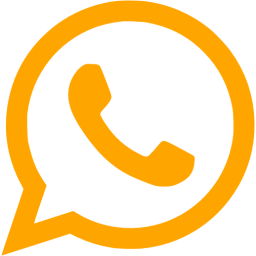
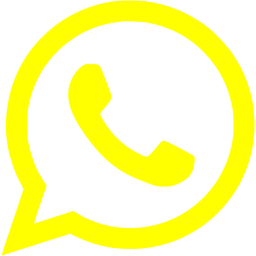
corporate image refactoring

diff --git a/index.html b/index.html
@@ -8,13 +8,13 @@
     <meta name="author" content="cl-Quick.Tech" />
     <meta
       name="description"
-      content="En Quicktech somos especialistas en diseño y desarrollo web, ofrecemos soluciones digitales innovadoras para empresas de todos los tamaños y sectores." />
+      content="Somos especialistas en diseño y desarrollo web" />
     <meta name="date" content="Enero 2024" />
     <meta name="robots" content="index, all, follow" />
     <meta name="category" content="Desarrollo Web" />
     <meta name="keywords" content="páginas, web, desarrollo, quick, tech" />
     <title>QuickTech | 2024</title>
-    <link rel="icon" type="image/x-icon" href="assets/images/favicon.png" />
+    <link rel="icon" type="image/x-icon" href="assets/images/iconLogoCLquickTech.png" />
     <!--Import Google Icon Font-->
     <link
       href="https://fonts.googleapis.com/icon?family=Material+Icons"
@@ -24,39 +24,39 @@
       rel="stylesheet"
       href="https://cdnjs.cloudflare.com/ajax/libs/materialize/1.0.0/css/materialize.min.css" />
       <!-- css -->
-      <!-- <link rel="stylesheet" href="assets/css/styles.css"> -->
+      <link rel="stylesheet" href="assets/css/styles.css">
   </head>
   <body>
     <!-- nav -->
     <div class="navbar-fixed">
       <nav class="black">
         <div class="nav-wrapper">
-          <a href="#init" class="brand-logo" >
-            <img src="assets/images/Logo.png" style="height: 56px" alt="Logo" />
+          <a href="index" class="brand-logo" >
+            <img class="img_logo" src="assets/images/LogoCLquickTech.png" alt="Logo" />
           </a>
           <!-- hamburger -->
           <a href="#" data-target="mobile-demo" class="sidenav-trigger"
-            ><i class="large material-icons" style="color: #f79c1b">menu</i></a
+            ><i class="large material-icons" style="color: #fff954">menu</i></a
           >
           <!-- nav-desktop -->
           <ul class="right hide-on-med-and-down">
             <li>
-              <a style="color: #f79c1b" href="#team">Nosotros</a>
+              <a style="color: #fff954" href="#sobre_nosotros">Nosotros</a>
             </li>
             <li>
-              <a style="color: #f79c1b" href="#webservices">Servicios</a>
+              <a style="color: #fff954" href="#servicios">Servicios</a>
             </li>
             <li>
-              <a style="color: #f79c1b" href="#contact">Contáctanos</a>
+              <a style="color: #fff954" href="#contacto">Contáctanos</a>
             </li>
             <li>
-              <a style="color: #f79c1b" href="#skills">Developer Skills</a>
+              <a style="color: #fff954" href="#herramientas_de_desarrollo">Developer Skills</a>
             </li>
             <li style="width: 62px;">
               <a
                 class="waves-effect waves-light"
                 href="https://wa.me/+56950988506?text=Hola QuickTech, te escribo desde la web..."
-                ><img src="assets/images/whatsapp.ico" class="responsive-img" style="max-width: 80%; margin-top: 1.325rem;"></a
+                ><img src="assets/images/whatsapp.png" class="responsive-img" style="max-width: 80%; margin-top: 1.325rem;"></a
               >
             </li>
           </ul>
@@ -64,30 +64,30 @@
       </nav>
     </div>
      <!-- nav-responsive -->
-   <div class="div container sidenav black" style="width: 360px;" id="mobile-demo">
+   <div class="div container sidenav black" id="mobile-demo">
     <div class="div section">
-      <img src="assets/images/Logo.png" style="width: 200px" alt="logoQuickTech">
+      <img src="assets/images/LogoCLquickTech.png" style="width: 200px" alt="logoQuickTech">
     </div>
      <ul >
       <li>
-        <a href="#team" style="color: #f79c1b">Nosotros</a>
+        <a href="#sobre_nosotros" style="color: #fff954">Nosotros</a>
       </li>
       <li>
-        <a href="#webservices" style="color: #f79c1b"
+        <a href="#servicios" style="color: #fff954"
           >Servicios</a
         ></li>
         <li>
-        <a href="#contact" style="color: #f79c1b"
+        <a href="#contacto" style="color: #fff954"
           >Contáctanos</a
         ></li>
         <li>
-          <a href="#skills" style="color: #f79c1b"
+          <a href="#herramientas_de_desarrollo" style="color: #fff954"
             >Developer Skill</a
           ></li>
         <li style="cursor: pointer;">
           <a  class="waves"
             href="https://wa.me/+56950988506?text=Hola QuickTech, te escribo desde la web...">
-            <img src="assets/images/whatsapp.ico" 
+            <img src="assets/images/whatsapp.png" 
               alt="logo-whatsapp" 
               style="height: 30px;
               width: 30px;
@@ -102,15 +102,15 @@
       <div class="footer-copyright black" style="margin-top: 16rem; color: dimgrey;">
         <div class="container">
           v 1.0.3
-          <a class="white-text right" href="#">
-            <i class="material-icons" style="color: #f79c1b;">chevron_left</i>
+          <a class="white-text right" href="index">
+            <i class="material-icons" style="color: #fff954;">chevron_left</i>
           </a>
         </div>
       </div>
     </footer>
    </div>
     <!-- Banner / Aside -->
-    <section id="init" >
+    <section id="inicio" >
       <div class="slider">
         <ul class="slides">
           <li>
@@ -153,9 +153,10 @@
       </div>
     </section>
     <!-- Nosotros -->
-    <section id="team" class="section black" style="padding-top: 5rem; padding-bottom: 5rem;">
+    <section id="sobre_nosotros" class="box section black">
       <div class="container">
-        <h3 class="center-align" style="color: #f79c1b; margin-bottom: 20px;">Nosotros</h3>
+        <h1 class="center-align" style="color: #fff954; margin-bottom: 20px;">Nosotros</h1
+          >
       </div>
       <div class="row section container center-align">
         <span class="flow-text white-text col s12" style="text-align: justify;">
@@ -176,17 +177,17 @@
       </div>
     </section>
     <!-- Servicios web -->
-    <section id="webservices" class="section" style="padding-top: 5rem; margin-bottom: 2rem;">
+    <section id="servicios" class="box section">
       <div class="container">
-        <h3 class="center-align" style="color: black">Servicios</h3>
+        <h1 class="center-align" style="color: black">Servicios</h1>
       <div class="row">
         <div class="col s12 m6 l6">
           <div class="card">
             <div class="card-image waves-effect waves-block waves-light">
               <img class="activator" src="assets/images/service-01.jpg" style="height: 260px;">
             </div>
-            <div class="card-content">
-              <span class="card-title activator grey-text text-darken-4 center-align">Diseño Web</span>
+            <div class="card-content" style="color: white; background-color: #fa6a2d;">
+              <span class="card-title activator center-align">Diseño Web</span>
             </div>
             <div class="card-reveal">
               <span class="card-title grey-text text-darken-4">Diseño Web<i class="material-icons right">close</i></span>
@@ -206,8 +207,8 @@
             <div class="card-image waves-effect waves-block waves-light">
               <img class="activator" src="assets/images/service-02.jpg" style="height: 260px;">
             </div>
-            <div class="card-content">
-              <span class="card-title activator grey-text text-darken-4 center-align">Desarrollo Web</span>
+            <div class="card-content" style="color: white; background-color: #fa6a2d;">
+              <span class="card-title activator center-align">Desarrollo Web</span>
             </div>
             <div class="card-reveal">
               <span class="card-title grey-text text-darken-4">Desarrollo Front-end y Back-end<i class="material-icons right">close</i></span>
@@ -228,8 +229,8 @@
             <div class="card-image waves-effect waves-block waves-light">
               <img class="activator" src="assets/images/service-03.jpg" style="height: 260px;">
             </div>
-            <div class="card-content">
-              <span class="card-title activator grey-text text-darken-4 center-align">Optimización SEO</span>
+            <div class="card-content"  style="color: white; background-color: #fa6a2d;">
+              <span class="card-title activator center-align">Optimización SEO</span>
             </div>
             <div class="card-reveal">
               <span class="card-title grey-text text-darken-4">Optimización para Motores de Búsqueda (SEO)<i class="material-icons right">close</i></span>
@@ -247,8 +248,8 @@
             <div class="card-image waves-effect waves-block waves-light">
               <img class="activator" src="assets/images/service-04.jpg" style="height: 260px;">
             </div>
-            <div class="card-content">
-              <span class="card-title activator grey-text text-darken-4 center-align">Adaptación Responsive</span>
+            <div class="card-content"  style="color: white; background-color: #fa6a2d;">
+              <span class="card-title activator center-align">Adaptación Responsive</span>
             </div>
             <div class="card-reveal">
               <span class="card-title grey-text text-darken-4">Diseño y Desarrollo Responsivo <i class="material-icons right">close</i></span>
@@ -267,8 +268,8 @@
       </div>
     </section>
     <!-- Contáctanos -->
-    <section id="contact" class="section" style="padding-top: 5rem; margin-bottom: 4rem;">
-      <h3 class="center-align" style="color: black">Contáctanos</h3>
+    <section id="contacto" class="box section" style="background-color: #fff954">
+      <h1 class="center-align" style="color: black">Contáctanos</h1>
       <div class="row white section container">
           <form class="col s12" id="dataform" action="sendemail" method="post">
           <div class="row">
@@ -318,7 +319,6 @@
               <input id="email" name="email" type="email"  class="validate" required
                 style="border-bottom: 1px solid black;box-shadow: 0 1px 0 0 black;">
               <label for="email" style="color: black">Email</label>
-              <span class="helper-text" data-error="Ingrese un correo válido" data-success="Correo ingresado correctamente"></span>
             </div>
           </div>
 
@@ -343,7 +343,7 @@
               id="send"
               class="waves-effect waves-black btn right"
               type="submit"
-              style="border-radius: 20px; background-color: #f79c1b; color: black;"
+              style="border-radius: 20px; background-color: #fff954; color: black; margin-right: 1rem;"
               ><i class="material-icons right">send</i>
               Enviar
           </button>
@@ -352,8 +352,8 @@
       </div>
     </section>
       <!-- SKILLTOOLS -->
-    <section  id="skills" class="section" style="margin-bottom: 6rem; margin-top: 6rem;">
-      <h3 class="center-align" style="color: black; margin-bottom: 5rem;">Developer Skills</h3>
+    <section  id="herramientas_de_desarrollo" class="box section">
+      <h1 class="center-align" style="color: black; margin-bottom: 5rem;">Developer Skills</h1>
        <!-- one -->
       <div class="container">
         <div class="row">
@@ -482,7 +482,7 @@
     <footer class="page-footer" style="background-color: black">
       <div class="footer-copyright white black-text">
         <div class="container">
-          © 2024 Copyright QuickTech
+          © 2024 Copyright cl-Quick.Tech
           <a class="black-text right" href="#!">Santiago, Chile
             🇨🇱</a>
         </div>

diff --git a/assets/css/styles.css b/assets/css/styles.css
@@ -1,11 +1,9 @@
-/* 
-A sticky footer always stays on the bottom of the page regardless of how little content 
-is on the page. However, this footer will be pushed down if there is a lot of content, 
-so it is different from a fixed footer. Add the following code to your CSS file.
-Note: This may cause issues in Internet Explorer which has weak support for flexbox. */
-
-body {
-  display: flex;
-  min-height: 100vh;
-  flex-direction: column;
+/* #fff954 */
+/* #fa6a2d */
+.img_logo {
+  height: 56px;
+}
+.box {
+  padding-top: 5rem;
+  padding-bottom: 5rem;
 }
